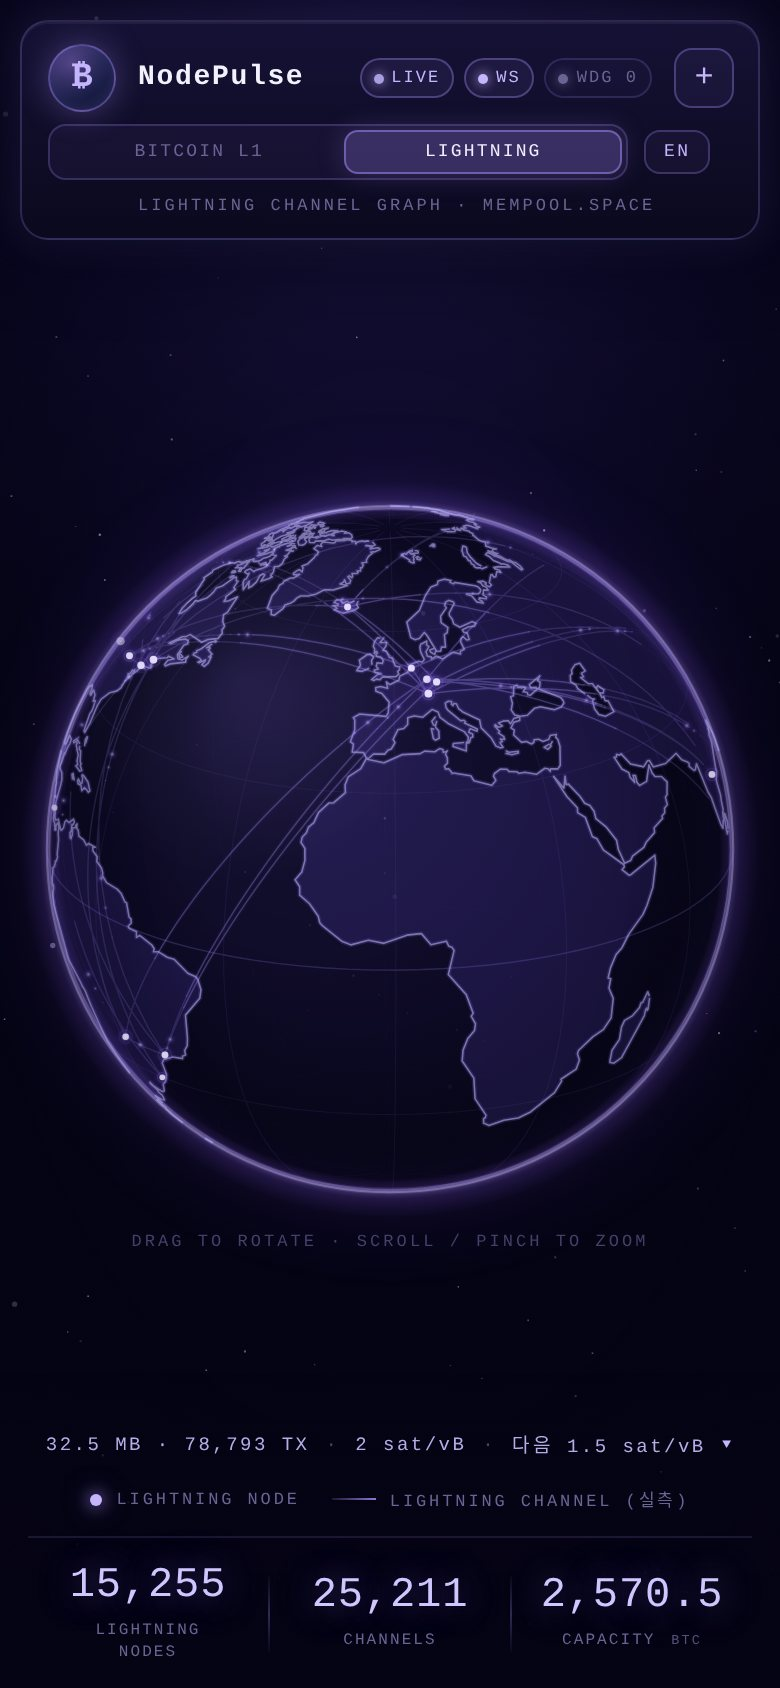
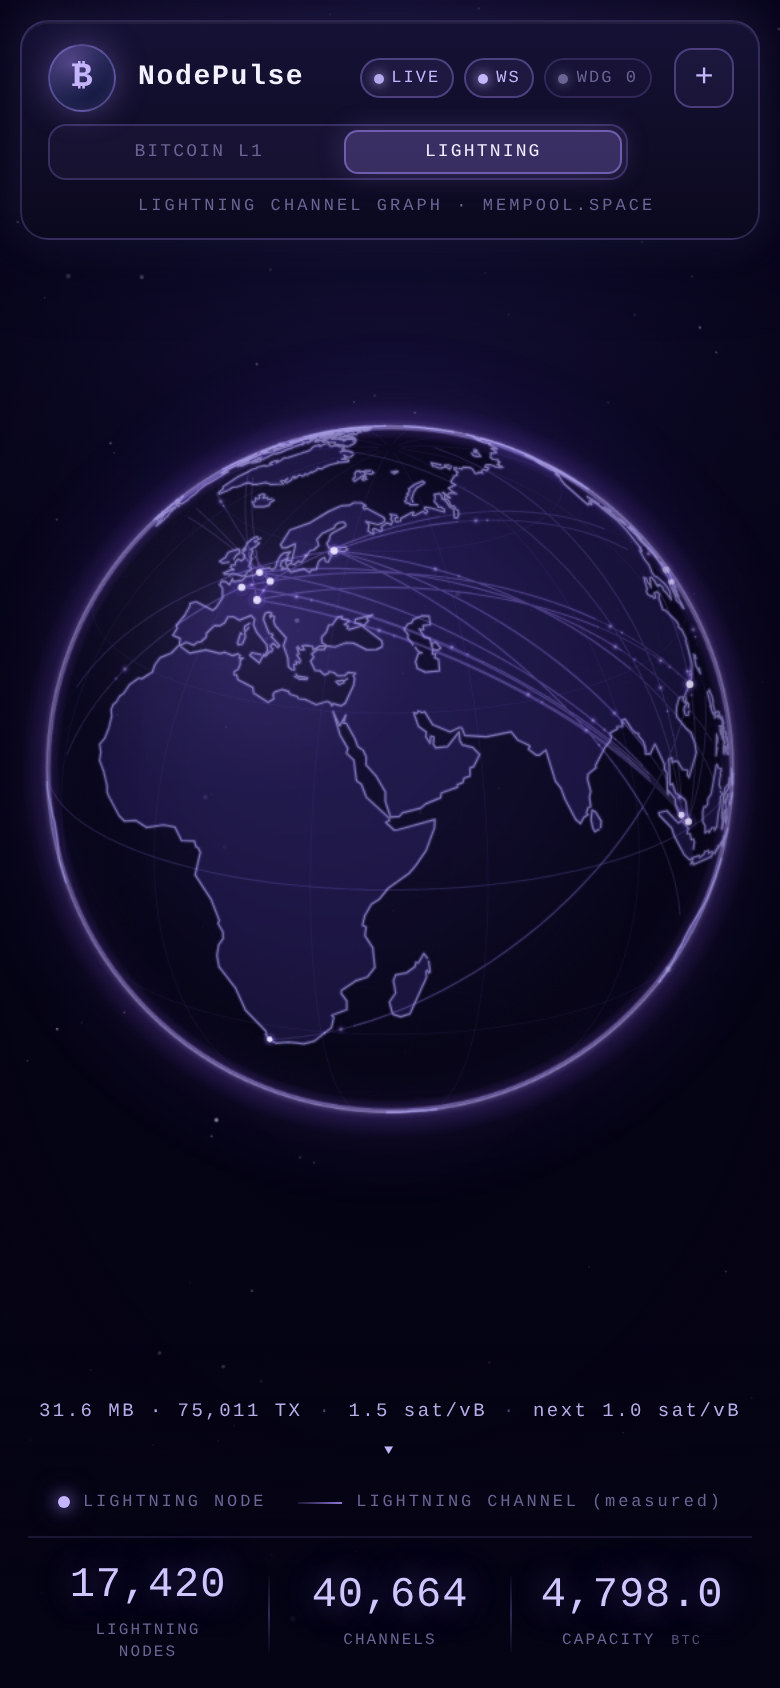
Screenshots of the page that ships: one language, no language button
Every screenshot in the repository - the two phone captures in fastlane and the
three the README embeds - was taken before 47a66c8. They showed the EN/KO
switch, the Korean captions under the globe, the Korean legend and the Korean
"next block" line, so the README was advertising an interface the build no
longer has.

They are re-captured from dist/nodepulse.html - the page build.py assembles and
the shell loads - in headless Chromium at the sizes the files already used
(780x1688 for the phone, 1800x1125 for the desktop). What is on screen is the
live mempool endpoint and the bundled Bitnodes snapshot, which the page labels
as such; nothing in it comes from this machine.

tools/make_store_screenshots.py is that capture, so the next round is a command
instead of a manual screenshot. The 1.1.13 changelog no longer claims a Korean
interface, which the build does not have.

diff --git a/tools/make_store_screenshots.py b/tools/make_store_screenshots.py
@@ -1,0 +1,71 @@
+#!/usr/bin/env python3
+"""Capture the store screenshots from the built page, at phone size.
+
+The page is the app: `dist/nodepulse.html` is what `build.py` assembles from
+`src/`, and what the Android shell loads. Rendering it in a headless Chromium at
+390x844 with a device pixel ratio of 2 gives the same 780x1688 canvas the store
+listing has used, with the current English-only header (no language button) and
+whatever the live endpoints answer at capture time.
+
+Two files are written: the L1 layer as the page opens, and the Lightning layer
+after the LIGHTNING tab is pressed. Everything on screen is public network data
+(mempool.space, Bitnodes) or the bundled Bitnodes snapshot, which is what the
+page itself labels it as; nothing here reads from a wallet, an account or a
+device.
+
+Usage:
+    python3 tools/make_store_screenshots.py
+
+Needs playwright with Chromium installed, plus the shared libraries under
+/workspace/.libroot on LD_LIBRARY_PATH in this environment.
+"""
+
+import asyncio
+import pathlib
+import sys
+
+from playwright.async_api import async_playwright
+
+ROOT = pathlib.Path(__file__).resolve().parent.parent
+PAGE = ROOT / "dist" / "nodepulse.html"
+OUT = ROOT / "fastlane" / "metadata" / "android" / "en-US" / "images" / "phoneScreenshots"
+
+VIEWPORT = {"width": 390, "height": 844}
+DPR = 2
+SETTLE_MS = 12000      # the page's own poll/websocket pass, and the hint fade
+
+
+async def main():
+    if not PAGE.exists():
+        sys.exit(f"no built page at {PAGE}; run build.py first")
+    OUT.mkdir(parents=True, exist_ok=True)
+
+    async with async_playwright() as p:
+        browser = await p.chromium.launch(args=["--no-sandbox"])
+        page = await browser.new_page(viewport=VIEWPORT, device_scale_factor=DPR)
+        await page.goto(PAGE.as_uri())
+        await page.wait_for_timeout(SETTLE_MS)
+
+        await page.screenshot(path=str(OUT / "01-l1-full-node-globe.png"))
+        state = await page.evaluate(
+            "() => ({layer: document.body.className,"
+            " height: document.getElementById('pHeight')?.textContent,"
+            " mem: document.getElementById('sMem')?.textContent})"
+        )
+        print("L1:", state)
+
+        await page.click("#layerLN")
+        await page.wait_for_timeout(SETTLE_MS)
+        await page.screenshot(path=str(OUT / "02-lightning-channel-graph.png"))
+        state = await page.evaluate(
+            "() => ({layer: document.body.className,"
+            " mem: document.getElementById('sMem')?.textContent,"
+            " sub: document.getElementById('subrow')?.textContent})"
+        )
+        print("LN:", state)
+
+        await browser.close()
+
+
+if __name__ == "__main__":
+    asyncio.run(main())
